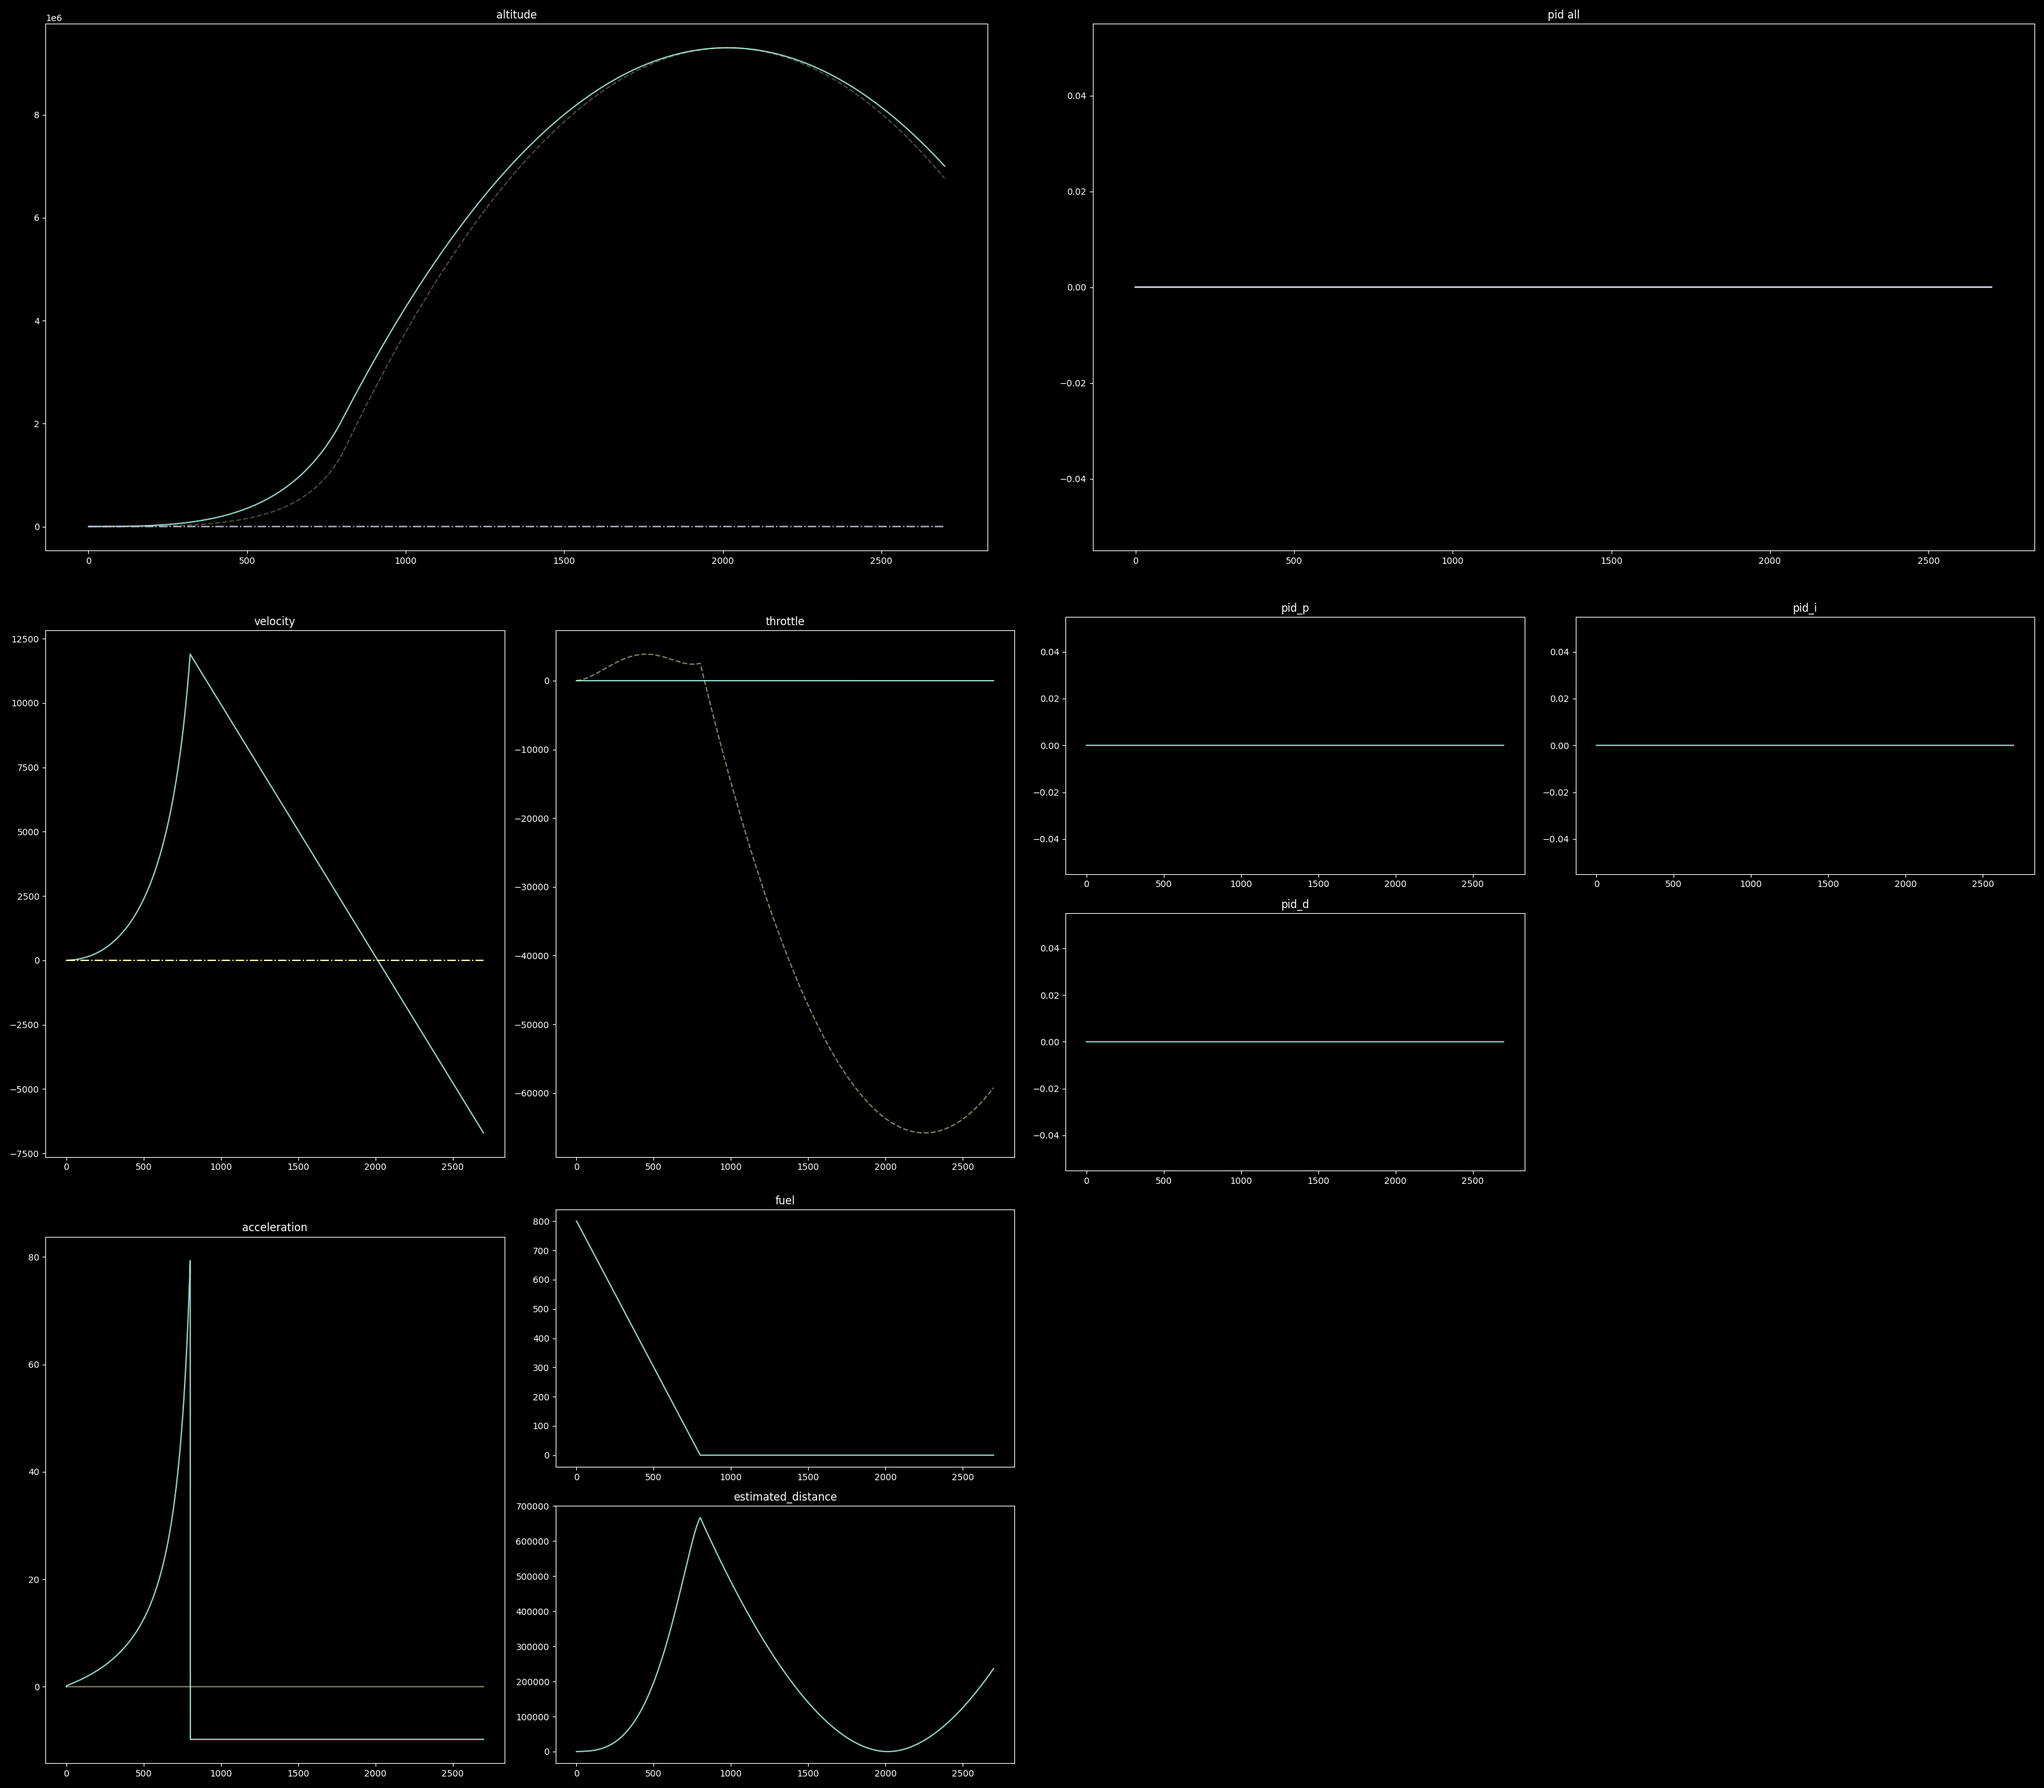
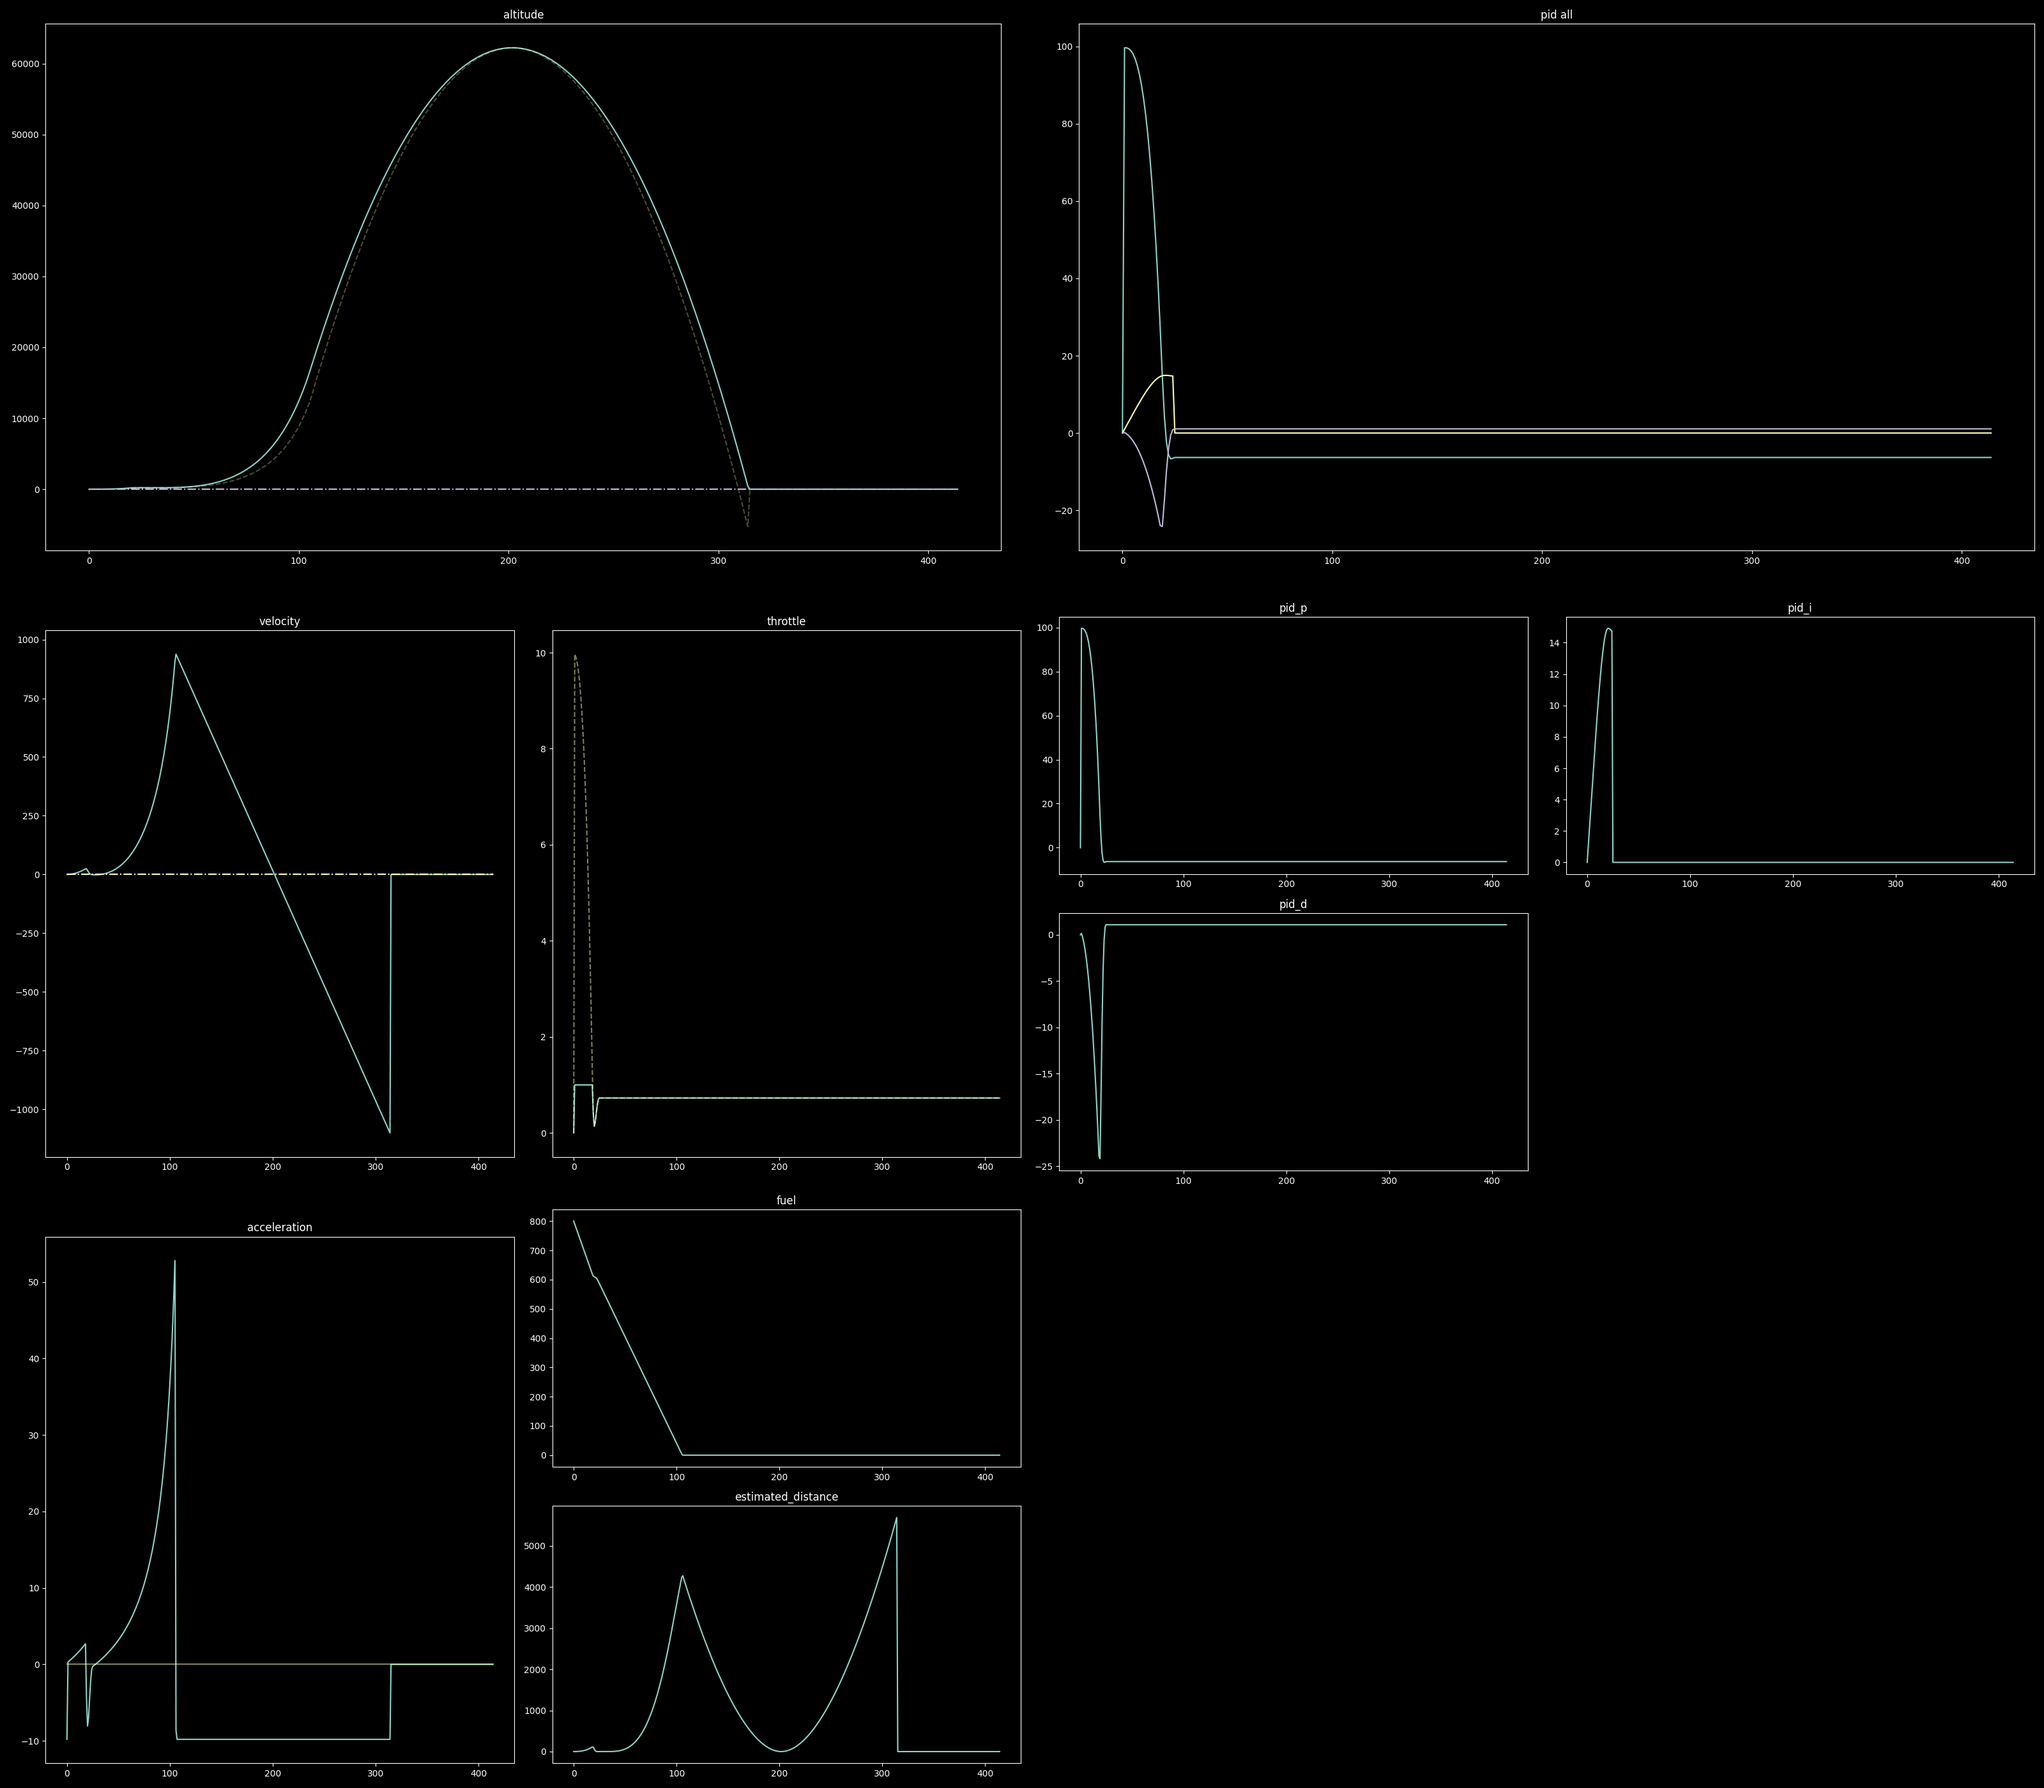
🧹 cleanup after biggun (1/?) 🌈

diff --git a/controller.py b/controller.py
@@ -8,14 +8,15 @@ class Controller:
 
 		# Build a rocket!
 		if rocket is not None:
-			self.rocket = rocket
+			self.r = rocket
 		else:
-			self.rocket = Rocket(
+			self.r = Rocket(
+				parent = self,
 				dry_mass = 100,
 				fuel = 800,
 				altitude=1,
 				velocity=0,
-				fuel_consumption=1,
+				fuel_consumption=10,
 				thrust = 9000
 			)
 		
@@ -23,9 +24,11 @@ class Controller:
 		if pid is not None:
 			self.pid = pid
 		else:
-			self.pid = PID(P=0.6, I=0.001, D=-2.5)
+			self.pid = PID(k_p=0.5, k_i=0.005, k_d=1)
 
 	def set_target(self, target_altitude):
+		self.pid.i = 0
+
 		if target_altitude > 0:
 			self.state = 'hover'
 		else:
@@ -33,42 +36,56 @@ class Controller:
 
 		print(f'PID prepared for {target_altitude}, {self.state}')
 
+	def get_data_channels(self):
+		data = self.r.dict()
+
+		return data
+
 	def update(self, target_altitude, t=1):
 		""" Steer rocket for t number of time steps """
 
-		self.pid_p, self.pid_i, self.pid_d = self.pid.get_pid()
+		self.r.pid_p, self.r.pid_i, self.r.pid_d = self.pid.get_pid()
 		
 		# Update the physical properties of the rocket
-		self.rocket.update()
+		self.r.update(t)
 
 		# Follow protocol based on current state
+		
+		# Landing 0 puts the rocket in free fall
+		# until continuing to do so would allow it to crash
+
+		# Landing 1 deals with the actual landing of the rocket
+
 		if self.state == 'landing-0':
-			if self.rocket.estimated_distance() > self.rocket.altitude:
-				self.rocket.throttle = .95
+			# If rocket is predicted to crash, engage thrusters
+			if self.r.estimated_distance() > self.r.altitude:
+				# Landing burn start
+				self.r.throttle = .95
 				self.state = 'landing-1'
 			else:
-				self.rocket.throttle = 0
+				self.r.throttle = 0
 
 		if self.state == 'landing-1':
-			if self.rocket.velocity < 0:
-				if abs(self.rocket.estimated_distance() - self.rocket.altitude) < 0.1:
-					self.rocket.throttle = .95
+			if self.r.velocity < 0:
+				if abs(self.r.estimated_distance() - self.r.altitude) < 0.1:
+					self.r.throttle = .95
 
-				elif self.rocket.altitude - self.rocket.estimated_distance() > 0.1:
-					self.rocket.throttle = 0.9
+				elif self.r.altitude - self.r.estimated_distance() > 0.1:
+					self.r.throttle = 0.9
 
-				elif self.rocket.altitude - self.rocket.estimated_distance() < -0.1:
-					self.rocket.throttle = 1
+				elif self.r.altitude - self.r.estimated_distance() < -0.1:
+					self.r.throttle = 1
 
 			else:
-				self.rocket.throttle = 7 / (self.rocket.thrust / self.rocket.total_mass)
+				self.r.throttle = 7 / (self.r.thrust / self.r.total_mass)
 				self.state = 'landed'
+				# Landing burn shutdown, landing
 
 		elif self.state == 'hover':
-			self.desired_acceleration = self.pid(target_altitude - self.rocket.altitude, t=t)
-			self.rocket.desired_throttle = self.desired_acceleration / (self.rocket.thrust / self.rocket.total_mass)
+			self.r.desired_acceleration = self.pid(target_altitude - self.r.altitude, t=t)
+			self.r.desired_throttle = self.r.desired_acceleration / (self.r.thrust / self.r.total_mass)
 
-		self.rocket.throttle = min(max(0, self.rocket.desired_throttle), 1)
+		self.r.throttle = min(max(0, self.r.desired_throttle), 1)
 
 		# Return rocket data for logging
-		return self.rocket.dict()
+		return self.r.dict()

diff --git a/simulation.py b/simulation.py
@@ -5,7 +5,7 @@ class Simulation:
 	def __init__(self, controller, targets, timesteps=1, sensitivity=10, failsafe=None):
 		""" Run a simulation on a Controller object
 		
-		targets is a list of tuples each containing length & altitude
+		targets is a list of tuples each containing duration & altitude
 		"""
 		
 		self.controller = controller
@@ -17,13 +17,13 @@ class Simulation:
 			self.failsafe = failsafe
 		else:
 			# Calculate a reasonable failsafe limit
-			total_length = sum(length for target, length in targets)
+			total_duration = sum(duration for target, duration in targets)
 			total_difference = sum([0] + [
 				abs(targets[j][1] - targets[j - 1][1])
 				for j in range(1, len(targets))
 			])
 			wiggle_room = 2000
-			self.failsafe = total_length + total_difference + wiggle_room
+			self.failsafe = total_duration + total_difference + wiggle_room
 
 	def __iter__(self):
 		self.next_target()
@@ -31,25 +31,28 @@ class Simulation:
 		i = 0
 		target_timer = 0
 		while True:
-			target, length = self.targets[0]
+			target, duration = self.targets[0]
 
 			# Count time when stable at target altitude
-			distance = abs(self.controller.rocket.altitude - target)
+			distance = abs(self.controller.r.altitude - target)
 			if distance <= self.sensitivity:
-				target_timer += 1
+				target_timer += 1 / self.timesteps
 
-				if target_timer >= length:
+				if target_timer >= duration:
 					print(f'Target of {target} is met.')
 					self.next_target()
 			
 			else:
 				target_timer = 0
 
-			if self.targets and i >= self.failsafe:
-				break
-				raise RuntimeError('Simulation failed to meet all targets')
+			# if self.targets and i >= self.failsafe:
+			# 	break
+			# 	raise RuntimeError('Simulation failed to meet all targets')
 
 			if not self.targets:
+				break
+
+			if i > 600*self.timesteps:
 				break
 
 			yield self.controller.update(target, t=self.timesteps)
@@ -60,7 +63,7 @@ class Simulation:
 		self.targets.pop(0)
 
 		if self.targets:
-			target, length = self.targets[0]
+			target, duration = self.targets[0]
 			self.controller.set_target(target)
 
 	
@@ -70,16 +73,11 @@ def example():
 	""" An example test with a rocket launching, hovering, & landing """
 	
 	targets = [
-		(200, 100),
-		(1000, 100),
-		(500, 100),
-		(400, 100),
-		(2000, 100),
-		(3000, 100),
-		(100, 100),
+		(200, 5),
+		(0, 100),
 	]
 	timesteps = 50
-	frequency = 1
+	frequency = 50
 
 	simulation = Simulation(
 		controller = Controller(),

diff --git a/rocket.py b/rocket.py
@@ -11,7 +11,9 @@ GRAVITY = 9.8
 
 
 class Rocket:
-	def __init__(self, dry_mass, fuel, altitude, velocity, fuel_consumption, thrust):
+	def __init__(self, parent, dry_mass, fuel, altitude, velocity, fuel_consumption, thrust):
+		self.parent = parent
+
 		# Massive properties
 		self.dry_mass = dry_mass
 		self.fuel = fuel
@@ -59,7 +61,8 @@ class Rocket:
 		}
 
 	def reset_motion(self):
-		self.altitude = 1
+		self.parent.state = 'touchdown'
+		self.altitude = 0
 		self.velocity = 0
 		self.acceleration = 0
 
@@ -78,8 +81,8 @@ class Rocket:
 			self.reset_motion()
 
 		# Update remaining fuel
-		if self.fuel * t >= self.throttle:
-			self.fuel -= self.throttle * self.fuel_consumption / t
+		if self.fuel * t >= throttle:
+			self.fuel -= throttle * self.fuel_consumption / t
 			if self.fuel < 0:
 				self.fuel = 0
 

diff --git a/pid.py b/pid.py
@@ -1,19 +1,20 @@
 class PID:
-	def __init__(self, P, I, D):
+	def __init__(self, k_p, k_i, k_d):
 		self.p = 0
 		self.i = 0
 		self.d = 0
-		self.P = P
-		self.I = I
-		self.D = D
+
+		self.k_p = k_p
+		self.k_i = k_i
+		self.k_d = k_d
 
 		self.p_err = None
 
 	def __call__(self, err, t=1):
 		if self.p_err is not None:
-			self.p = self.P * err  # Proportional
-			self.i += self.I * err / t # Integral
-			self.d = self.D * (err-self.p_err)*t # Derivative
+			self.p = self.k_p * err  # Proportional
+			self.i += self.k_i * err / t # Integral
+			self.d = self.k_d * (err - self.p_err) * t # Derivative
 
 		self.p_err = err
 

diff --git a/main.py b/main.py
@@ -15,7 +15,7 @@ from functions import *
 
 def main():
 	# Get keys of Rocket through a Dummy Controller object
-	keys = controller.Controller().rocket.dict().keys()
+	keys = controller.Controller().get_data_channels().keys()
 	results = {key: [] for key in keys}
 	
 	# Start & collect data from example simulation
